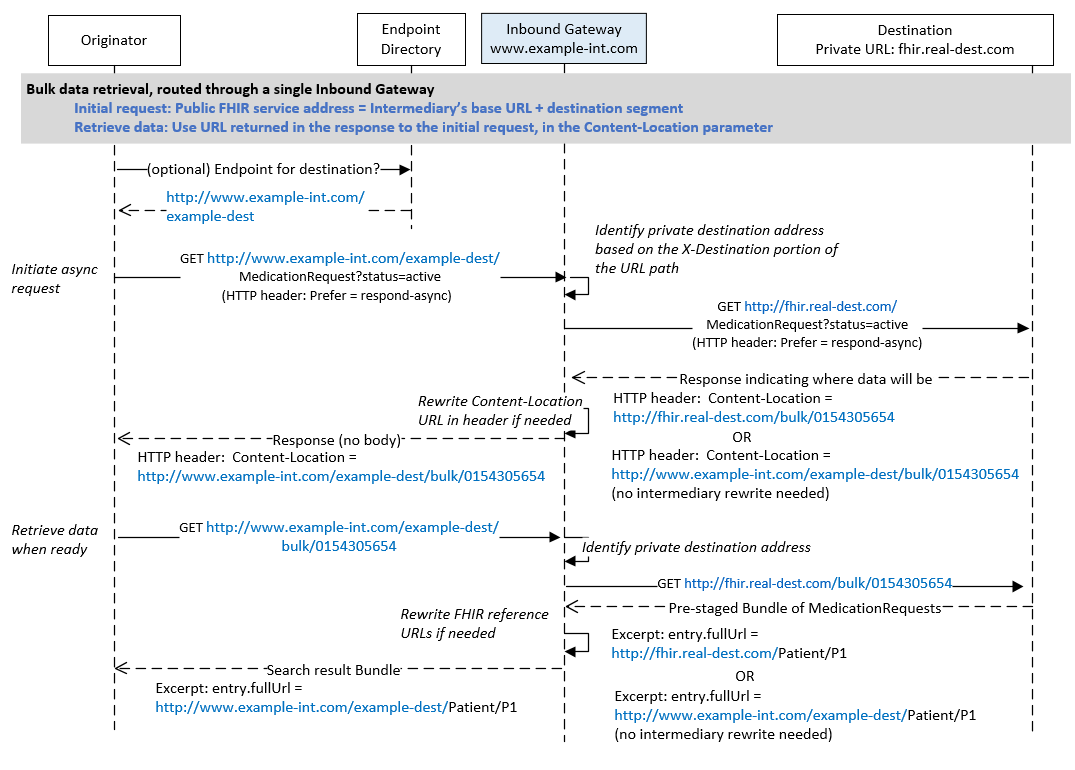
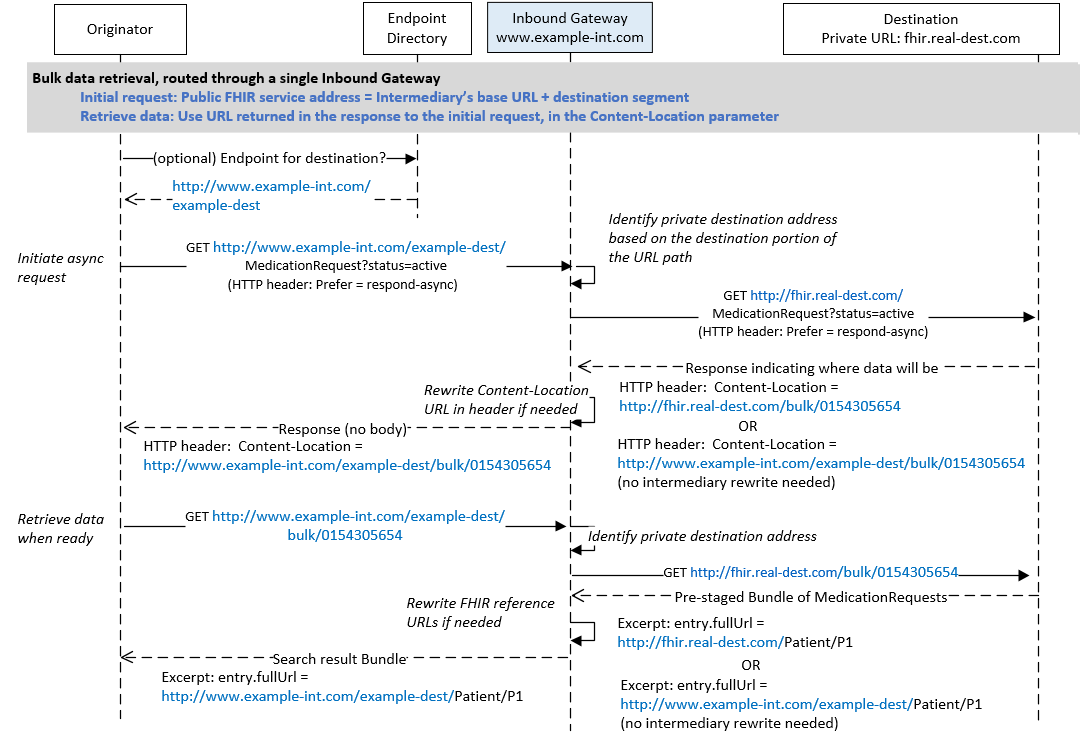
Correct wording in sequence diagrams

diff --git a/input/pages/index.md b/input/pages/index.md
@@ -72,6 +72,49 @@ The guide is organized into the following sections:
 
 <p></p>
 
+### Change Log
+
+  <table class="grid">
+    <tbody>
+	  <tr>
+		<td>Date</td>
+		<td>Change</td>
+  	  </tr>
+	  <tr>
+		<td>Mar 1, 2021</td>
+		<td>Skeleton draft</td>
+  	  </tr>
+	  <tr>
+		<td>April 12-23, 2021</td>
+		<td>Expanded Use Cases and Roles and Specification pages to reflect current group discussion. Added draft Exception Handling page</td>
+  	  </tr>
+	  <tr>
+		<td>May 17, 2021</td>
+		<td>Added draft material to the Specification page describing a fourth addressing approach that passes routing information in a query string parameter</td>
+  	  </tr>
+	  <tr>
+		<td>June 12, 2021</td>
+		<td>Adjusted Specification page based on Connectathon feedback: added "intermediary subdomain" as another option for constructing the destination’s public FHIR service address and added a note to "Intermediary’s base URL accompanied by routing metadata passed in a query string parameter" stating that Connectathon discussion deterimined that the option results in invalid FHIR URLs in some cases.    Adjusted exchange flow diagrams to consistently refer to the intermediary's URL as example-int.com and the destination's public URL as example-dest and private URL as real-dest.com.   Added a section on URL rewriting to the Specification page, and added rewriting of URLs to exchange flows.</td>
+  	  </tr>
+	  <tr>
+		<td>July 9, 2021</td>
+		<td>Focused the content on addressing options 1 (Base URL that reflects the destination's identity), 2 (Subdomain of intermediary's URL that identifies the destination) and 3 (Intermediary's base URL followed by a path indicating the destination) based on stakeholder feedback. On the Specifications page, removed options 4 (HTTP header parameter) and 5 (query string parameter). Removed the incomplete push scenario content from the Use Cases and Specifications pages. Clarified content in the scenario steps related to rewriting of URLs in content returned by the destination.</td>
+  	  </tr>
+	  <tr>
+		<td>July 19, 2021</td>
+		<td>Added more description and specifics about the guide's scope to the index page. On the Use Cases page, clarified the first out of scope row, and highlighted the second out of scope row for discussion. Adjusted Exception Handling page based on final solution approaches</td>
+  	  </tr>
+	  <tr>
+		<td>July 21, 2021</td>
+		<td>In Specification, added the need to also rewrite HTTP header parameter values containing the destination's base service address. Removed errant reference to a future FAST Scaling IG in the exception handling page. Added CapabilityStatement for an intermediary. Removed placeholder FHIR resources.</td>
+  	  </tr>
+	  <tr>
+		<td>July 26, 2021</td>
+		<td>In Specification, corrected sequence diagrams that referred to an X-Destination header that was previously removed from the IG's approaches.</td>
+  	  </tr>
+   </tbody>
+  </table>
+
 <br />
 
 
